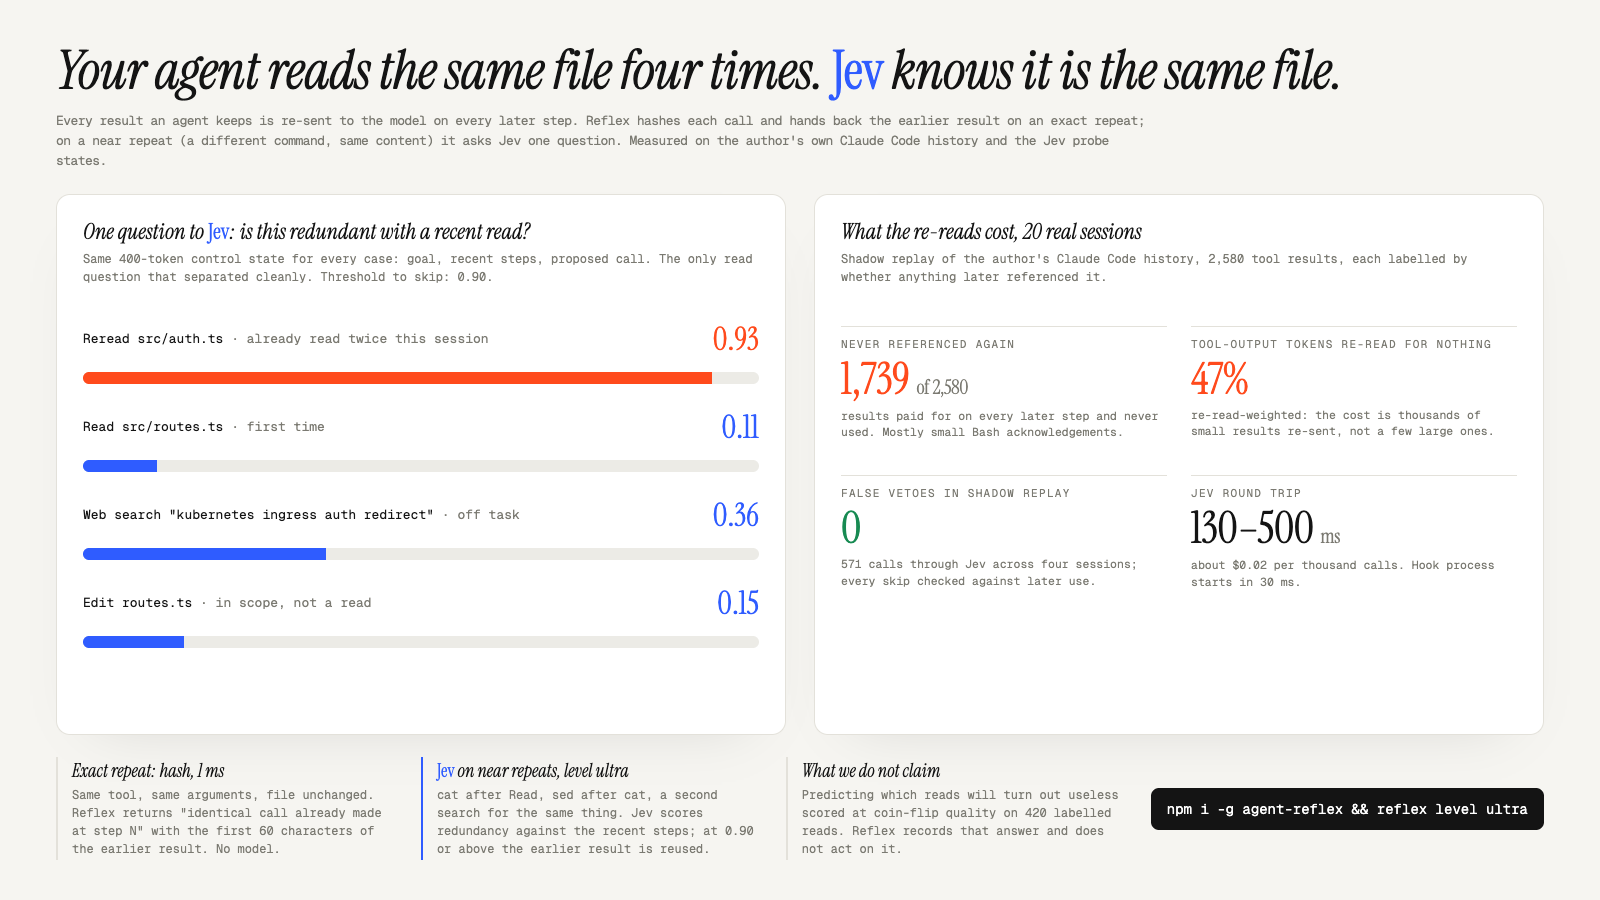
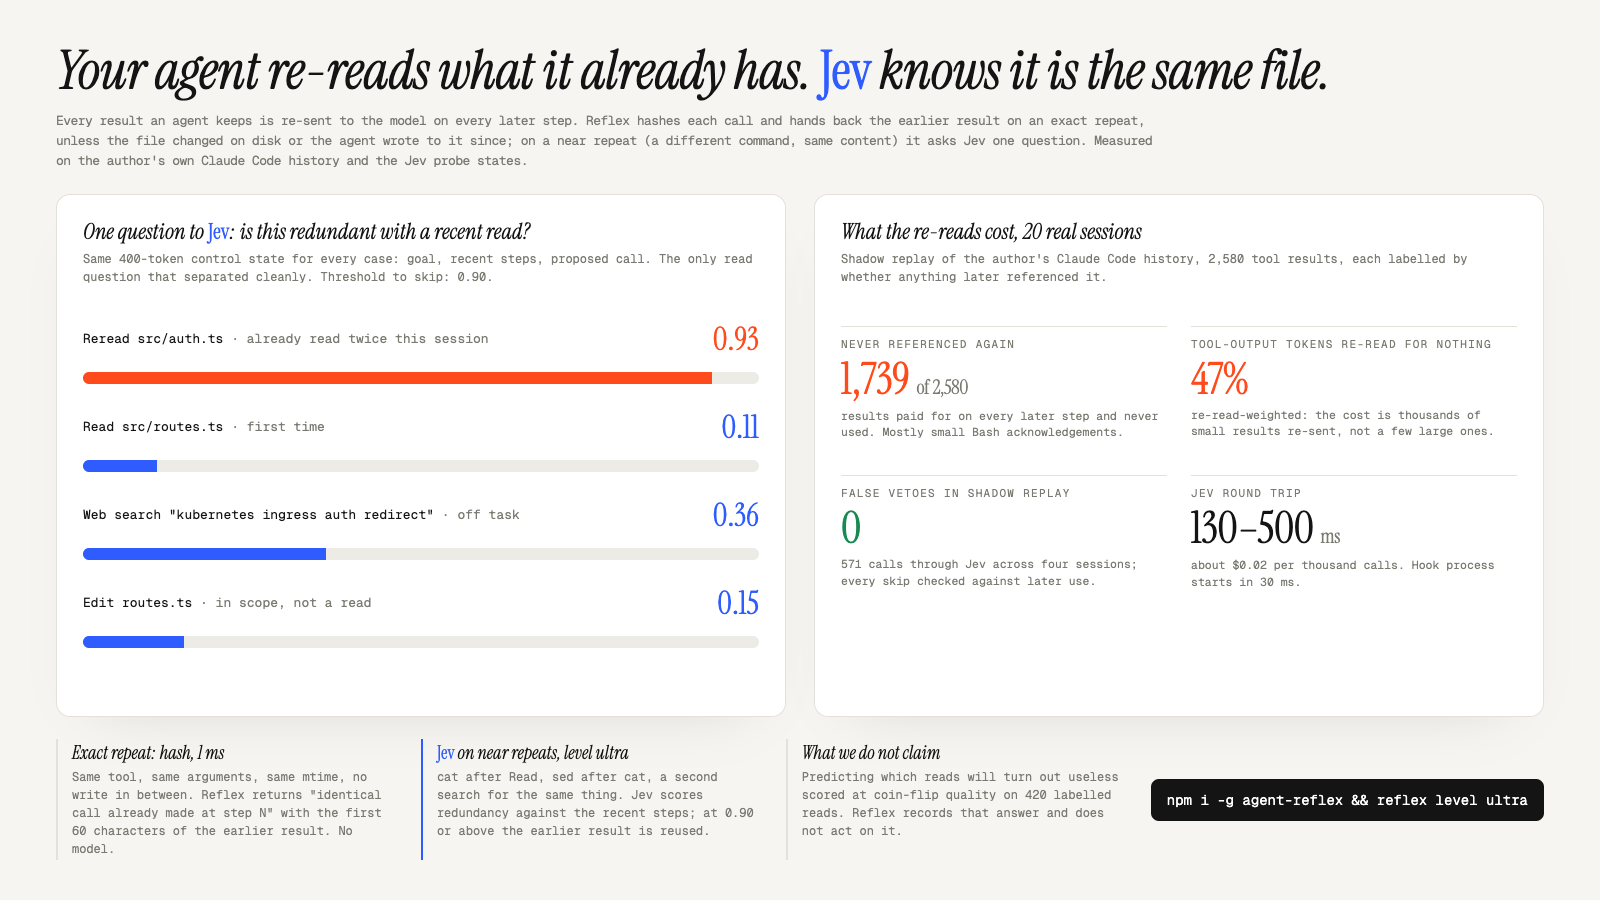
fix: a re-read after the file changed on disk is not a duplicate
Single-path reads record the file mtime on the action. Duplicate detection already cleared on the agent's own writes; it now also breaks when the current mtime differs from the earlier read's, so an edit from the user's editor or another process is never served from the stale earlier result. Infographic copy no longer claims four re-reads per session.

diff --git a/apps/demo/context.html b/apps/demo/context.html
@@ -40,8 +40,8 @@ h1 small{display:block;font:400 13px/1.55 "Geist Mono";color:var(--dim);margin-t
 </head>
 <body>
 <div class="g">
-  <h1>Your agent reads the same file four times. <i>Jev</i> knows it is the same file.
-    <small>Every result an agent keeps is re-sent to the model on every later step. Reflex hashes each call and hands back the earlier result on an exact repeat; on a near repeat (a different command, same content) it asks Jev one question. Measured on the author's own Claude Code history and the Jev probe states.</small></h1>
+  <h1>Your agent re-reads what it already has. <i>Jev</i> knows it is the same file.
+    <small>Every result an agent keeps is re-sent to the model on every later step. Reflex hashes each call and hands back the earlier result on an exact repeat, unless the file changed on disk or the agent wrote to it since; on a near repeat (a different command, same content) it asks Jev one question. Measured on the author's own Claude Code history and the Jev probe states.</small></h1>
 
   <div class="card">
     <h2>One question to <i>Jev</i>: is this redundant with a recent read?</h2>
@@ -66,7 +66,7 @@ h1 small{display:block;font:400 13px/1.55 "Geist Mono";color:var(--dim);margin-t
   </div>
 
   <div class="foot">
-    <div class="lever"><b>Exact repeat: hash, 1 ms</b>Same tool, same arguments, file unchanged. Reflex returns "identical call already made at step N" with the first 60 characters of the earlier result. No model.</div>
+    <div class="lever"><b>Exact repeat: hash, 1 ms</b>Same tool, same arguments, same mtime, no write in between. Reflex returns "identical call already made at step N" with the first 60 characters of the earlier result. No model.</div>
     <div class="lever j"><b><i>Jev</i> on near repeats, level ultra</b>cat after Read, sed after cat, a second search for the same thing. Jev scores redundancy against the recent steps; at 0.90 or above the earlier result is reused.</div>
     <div class="lever"><b>What we do not claim</b>Predicting which reads will turn out useless scored at coin-flip quality on 420 labelled reads. Reflex records that answer and does not act on it.</div>
     <div class="cmd">npm i -g agent-reflex && reflex level ultra</div>

diff --git a/packages/reflex/src/state.ts b/packages/reflex/src/state.ts
@@ -1,4 +1,5 @@
 import { createHash } from 'node:crypto';
+import { statSync } from 'node:fs';
 import { isAbsolute, resolve } from 'node:path';
 import { classify } from './classify.js';
 
@@ -16,6 +17,8 @@ export interface Action {
   outcome?: Outcome;
   resultDigest?: string;
   resultHash?: string;
+  /** File mtime at the time of a single-path read; a later read with a different mtime is not a duplicate. */
+  mtimeMs?: number;
 }
 
 export interface ControlState {
@@ -110,7 +113,12 @@ export function summarize(tool: string, args: Record<string, unknown>): string {
 export function makeAction(tool: string, args: Record<string, unknown>, cwd: string, step: number): Action {
   const cls = classify(tool, args, cwd);
   const { canonical, paths } = canonicalArgs(tool, args, cwd);
-  return { tool, class: cls.class, readOnly: cls.readOnly, summary: summarize(tool, args), signature: sha(`${tool}:${canonical}`), paths, step };
+  const mtimeMs = cls.readOnly && paths.length === 1 ? fileMtime(paths[0]!) : undefined;
+  return { tool, class: cls.class, readOnly: cls.readOnly, summary: summarize(tool, args), signature: sha(`${tool}:${canonical}`), paths, step, ...(mtimeMs !== undefined ? { mtimeMs } : {}) };
+}
+
+function fileMtime(path: string): number | undefined {
+  try { return statSync(path).mtimeMs; } catch { return undefined; }
 }
 
 export function extractConstraints(goal: string): string[] {

diff --git a/packages/reflex/test/detect.test.ts b/packages/reflex/test/detect.test.ts
@@ -33,6 +33,18 @@ describe('detectFlags', () => {
     const recent2 = [act('Grep', { pattern: 'x' }, 1), act('Write', { file_path: 'b.ts' }, 2)];
     expect(detectFlags(recent2, makeAction('Grep', { pattern: 'x' }, cwd, 3)).exactDuplicate).toBe(false);
   });
+  it('a read is not a duplicate once the file changed on disk, even with no agent write in between', () => {
+    const earlier = { ...act('Read', { file_path: 'a.ts' }, 1), mtimeMs: 1000 };
+    const same = { ...makeAction('Read', { file_path: 'a.ts' }, cwd, 3), mtimeMs: 1000 };
+    const changed = { ...same, mtimeMs: 2000 };
+    expect(detectFlags([earlier], same).exactDuplicate).toBe(true);
+    expect(detectFlags([earlier], changed).exactDuplicate).toBe(false);
+  });
+  it('records the mtime of a single-path read from disk', () => {
+    const a = makeAction('Read', { file_path: 'package.json' }, process.cwd(), 1);
+    expect(typeof a.mtimeMs).toBe('number');
+    expect(makeAction('Grep', { pattern: 'x' }, cwd, 1).mtimeMs).toBeUndefined();
+  });
   it('browser reads are cleared by a click on the same MCP server, and empty results are never a duplicate basis', () => {
     const page = (n: number) => act('mcp__claude-in-chrome__read_page', { filter: 'all' }, n);
     const click = { ...act('mcp__claude-in-chrome__computer', { action: 'left_click' }, 2), readOnly: false, class: 'exec' as const };

diff --git a/packages/reflex/src/detect.ts b/packages/reflex/src/detect.ts
@@ -56,6 +56,7 @@ export function detectFlags(recent: Action[], proposed: Action, o: CycleOpts = d
     const a = window[i]!;
     if (a.signature !== proposed.signature || (a.outcome !== 'ok' && a.outcome !== 'trimmed')) continue;
     if (a.resultDigest === '') break; // empty text result (image, binary): no evidence a re-read is redundant
+    if (a.mtimeMs !== undefined && proposed.mtimeMs !== undefined && a.mtimeMs !== proposed.mtimeMs) break; // file changed outside the agent's own writes
     exactDuplicate = !window.slice(i + 1).some((m) => !m.readOnly && invalidates(m, proposed));
     break;
   }

diff --git a/CHANGELOG.md b/CHANGELOG.md
@@ -9,6 +9,7 @@
 - CLI: `init [--global]`, `replay`, `stats`, `watch`, `doctor`, `clean`, `serve`.
 - Benchmark routing arm: Sonnet 5 $1.75 → $0.28 with Jev routing, same outcome.
 - Default level is `ask` with Jev; `init` asks for the key; `nudge` retired as a level (still a mode); README led by what Jev decides.
+- Duplicate reads record the file mtime; a re-read after the file changed on disk is never treated as a duplicate.
 - Destructive-pattern hits judged in context by Jev at ask/auto/ultra (requested/needed proceed with a note; unrelated/forbidden prompt); model calls on reads only in ultra.
 - Levels (`off | watch | nudge | ask | auto | ultra`) as presets over the config, `reflex level`; unattended levels deny risky calls instead of asking; Jev per-step model routing in the AI SDK adapter.
 - Codex CLI host (`reflex-hook --codex`, `reflex init --codex|--all`), prompt-derived goals independent of host transcripts, `apply_patch` classification, install skill and agent install prompt.
